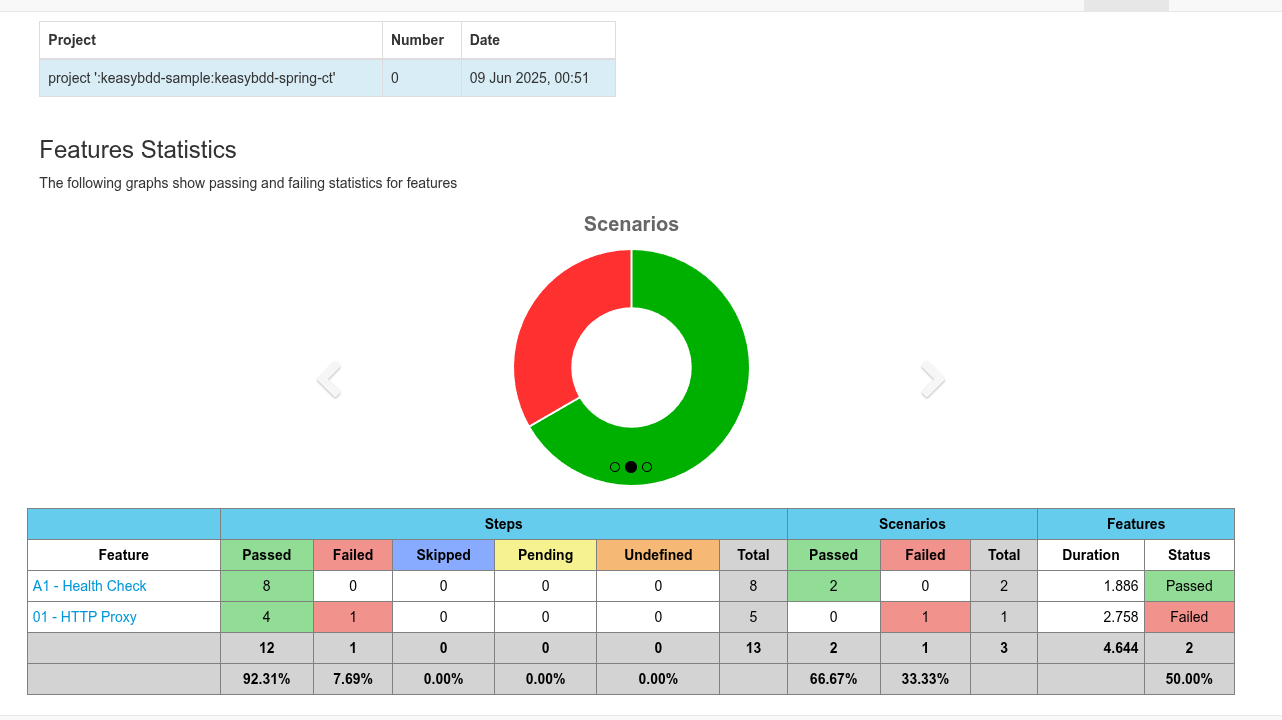
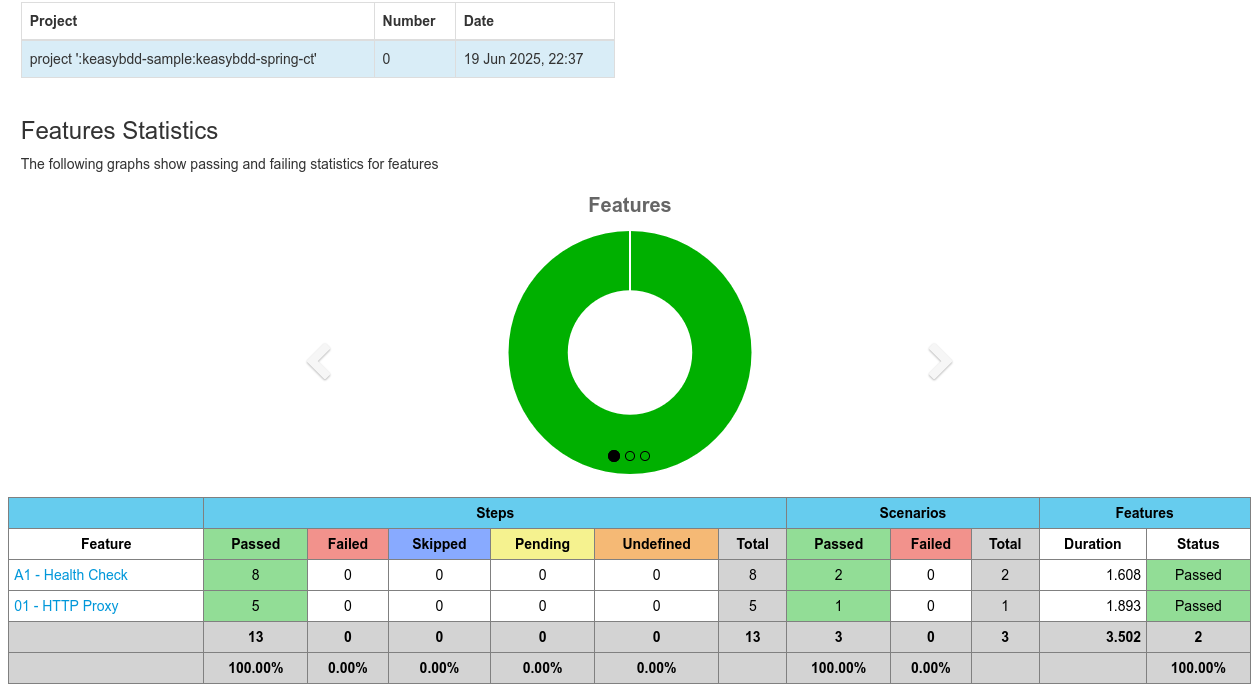
set up framework

diff --git a/keasybdd-http/src/main/kotlin/com/cplier/service/MockAbstractHttpService.kt b/keasybdd-http/src/main/kotlin/com/cplier/service/MockAbstractHttpService.kt
@@ -148,23 +148,29 @@ public abstract class MockAbstractHttpService : MockHttpService {
     val headers = bufferRequest.headers
     val sessionId = headers[SESSION_CORRELATION_ID]
     val requestId = headers[REQUEST_CORRELATION_ID]
-    sessionId?.also {
+    if (sessionId != null) {
       sessionIds[endpoint] = sessionId
     }
-    requestId?.also {
+    if (requestId != null) {
       requestIds[endpoint] = requestId
     }
     if (httpRequest is MockDefaultHttpRequest) {
       val replacedBody = httpRequest.body
       if (replacedBody != null) {
-        httpRequest.body =
-          replacedBody
-            .replace(SESSION_CORRELATION_ID_FLAG, sessionIds[endpoint]!!)
-            .replace(REQUEST_CORRELATION_ID_FLAG, requestIds[endpoint]!!)
+        if (sessionIds[endpoint] != null) {
+          httpRequest.body = replacedBody.replace(SESSION_CORRELATION_ID_FLAG, sessionIds[endpoint]!!)
+        }
+        if (requestIds[endpoint] != null) {
+          httpRequest.body = replacedBody.replace(REQUEST_CORRELATION_ID_FLAG, requestIds[endpoint]!!)
+        }
       }
     }
-    httpRequest?.headers?.set(SESSION_CORRELATION_ID, sessionIds[endpoint]!!)
-    httpRequest?.headers?.set(REQUEST_CORRELATION_ID, requestIds[endpoint]!!)
+    if (sessionIds[endpoint] != null) {
+      httpRequest?.headers?.set(SESSION_CORRELATION_ID, sessionIds[endpoint]!!)
+    }
+    if (requestIds[endpoint] != null) {
+      httpRequest?.headers?.set(REQUEST_CORRELATION_ID, requestIds[endpoint]!!)
+    }
 
     replaceLocalHostWithRealIp(httpRequest)
     replaceLocalHostWithRealIp(bufferRequest)

diff --git a/README.md b/README.md
@@ -13,7 +13,7 @@ Kotlin Easy BDD library.
 
 ## Usage
 
-Please check out this repo, and try to fix the above failed BDD scenarios.
+Please check out this repo, and try to run the above BDD scenarios.
 
 ## Changelog
 
